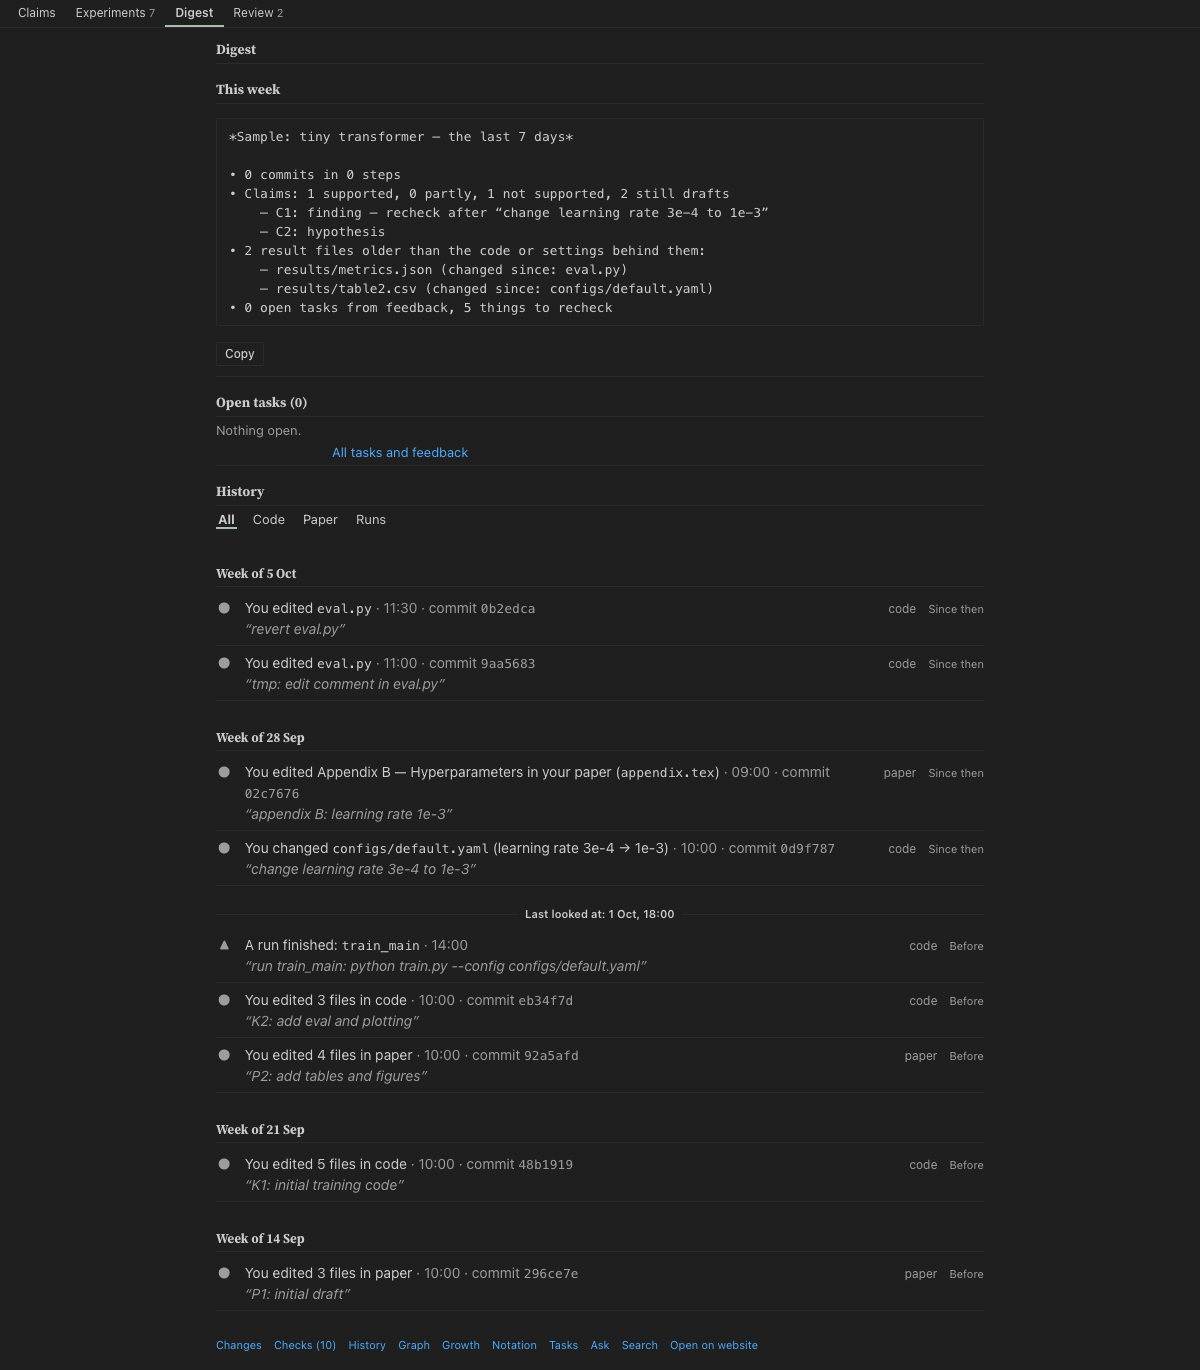
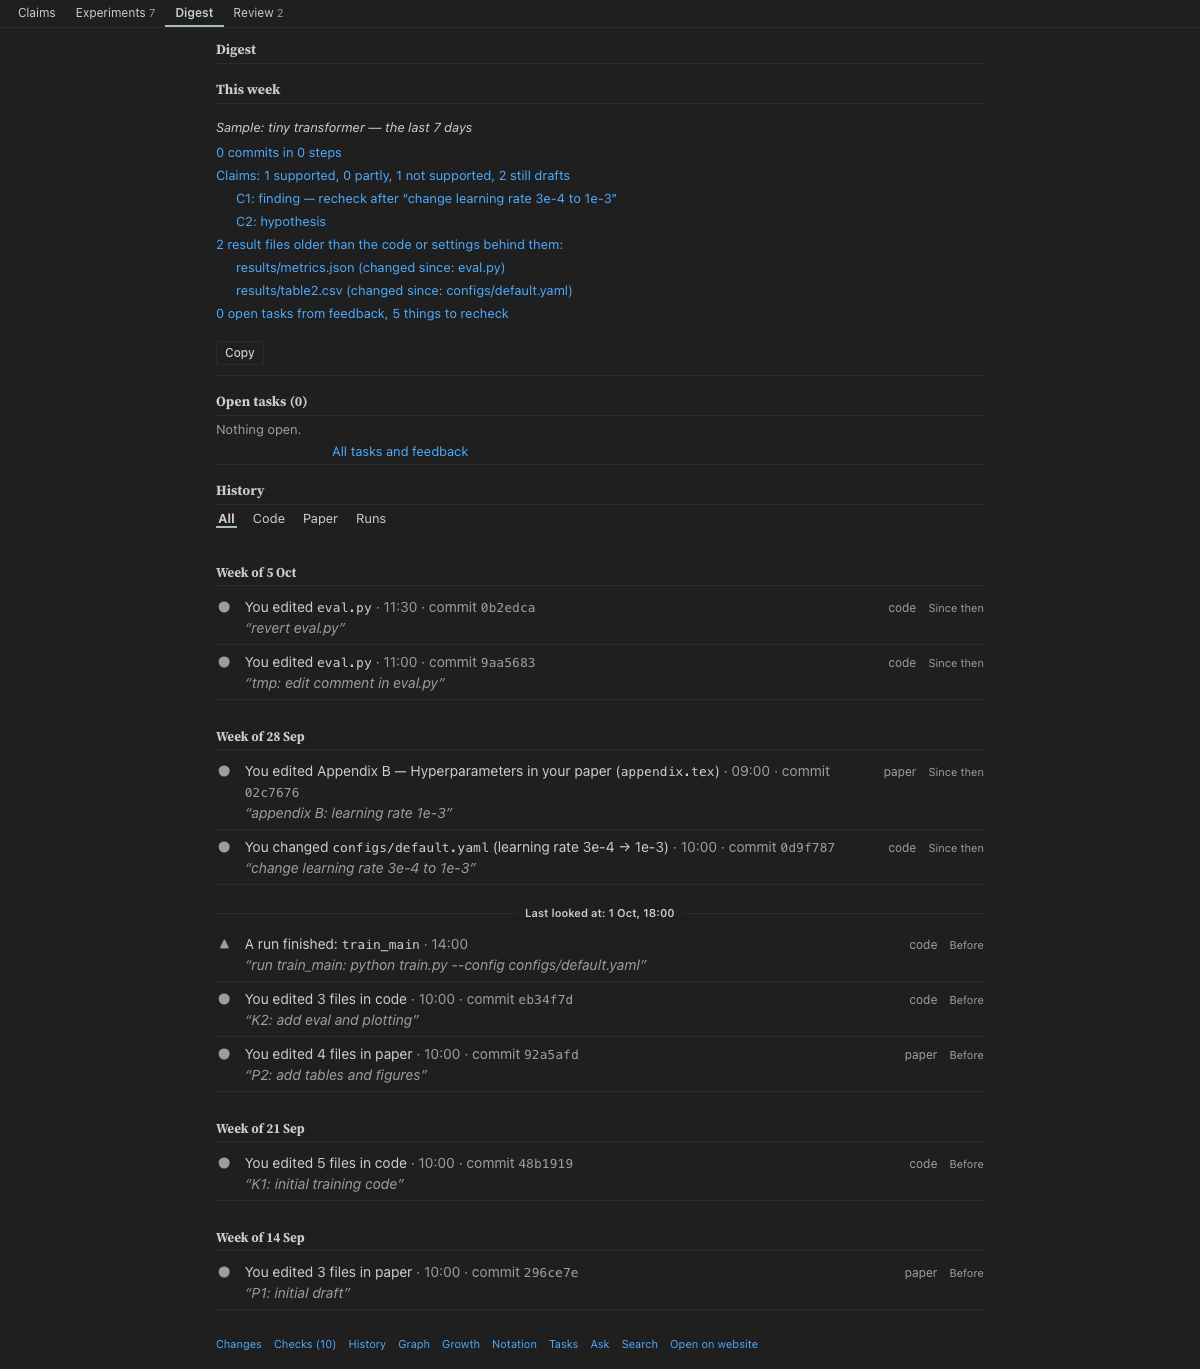
S18: handoff note after QA round 1, retaken screenshots
Claude-Session: https://claude.ai/code/session_01M9nCVEYUbQJoviy45yHzw2

diff --git a/wiki/sprints/S18/S18-01-lead.md b/wiki/sprints/S18/S18-01-lead.md
@@ -1,7 +1,7 @@
 ---
 type: task-card
 owner_agent: lead
-status: built on branch s18-dais-ui, awaiting QA and Juhyeong's approval
+status: QA round 1 defects D1, D3-D7 fixed on s18-dais-ui; awaiting QA re-test and Juhyeong's approval
 sources:
   - "founder message in chat, 2026-11-12 15:53 KST: 'Regarding the UI, align it with the following website. https://dais.korea.ac.kr Overall, I want the UI to be direct, yet simple just like the structure of the website that I have given you.'"
   - "founder message in chat, 2026-11-12 15:55 KST: 'make the design for opening from the visual studio code differently so that the UI adapts to the VS studio code format (it is usually smaller than normal website).'"
@@ -50,6 +50,24 @@ The acceptance criteria hold, QA has verified on the branch, and a report with t
   - VS Code (step 5): `vscode.css` added after `app.css` only in the tab; theme mapping per the spec (variable names checked against the installed VS Code's webview `index.html` and its Light/Dark Modern theme files); three width modes by container query on `#app`; Claims is an outline with arrows under 360 px; tabs shorten to a first letter only when they do not fit; arrow keys move between rows; figures max 160 px; equations scroll in their row; "Open on website" link. CSP (`default-src 'self'`, `frame-ancestors 'none'` on the hub; the tab's nonce CSP) and the S16 request bridge are unchanged.
   - Tests. Baseline at 8b427f5 on this machine: Python 162 passed / 2 skipped; extension unit 56/56; integration 10/10; end-to-end 6 skipped (Playwright is not installed here). Now: Python 169 passed / 2 skipped; unit 63/63; integration 10/10; end-to-end 7 skipped. New: `app/tests/test_s18_ui.py` (7 tests), `vscode/test/unit/s18.test.ts` (7 tests: stylesheet switch, no minimum width, CSP unchanged, theme mapping scoped to the tab, width modes, tree per mode, Digest view), one end-to-end width-mode test (skipped here). No existing test was changed. The end-to-end checks were instead run by hand in WebKit (below): modes at 300/500/1200 px, switching by resizing `#app` without a reload, no sideways scroll, "Open in editor" calls `openFile` with repo, path and line.
   - Screenshots: `screenshots/` (23 + launcher). Website at 1280 px: `website-{claims,experiments,review,digest,start}-1280.png`. VS Code tab: `vscode-{claims,experiments,review,digest}-{300,full}-{light,dark}.png` and `vscode-claims-500-{light,dark}.png`. **Not real VS Code:** the tab was rendered in WebKit (a small local WKWebView snapshot tool; no Chromium or Playwright on this machine) with `vscode.css`, the tab CSS and the `--vscode-*` values of Default Light Modern / Dark Modern from the installed VS Code, against `lemmata demo` (synthetic sample). The start page used a stubbed `/api/hub/status` (public mode).
+- **After QA round 1 ([qa-S18-01.md](qa-S18-01.md), FAIL), fixed in 8383d03:**
+  - D1: the VS Code tab asked for `SourceSans3-Variable.woff2` and its CSP (`font-src data:`) blocked it, which failed e2e 6/7. The tab now drops every `@font-face` it did not inline (`tabFonts` in `vscode/src/core/embed.ts`), so it never asks for a font file; the tab CSP is unchanged. The unit test that asserted the sans URL stayed in the tab's CSS now asserts the opposite. `vscode.css` font stacks fall back to system fonts when `--vscode-*` is missing (QA N4).
+  - D3: no boxed panels on Experiments ("Not mapped yet", "Not tested yet", "No question" are rows). Every state chip is a `[word]` tag followed by the 6 px dot, with no glyph; stages use the spec's dot colours ([hypothesis]/[exploration] pale, [being tested] light, [finding] success, [not supported] error). This also covers Review and the other pages that used chips.
+  - D4: Digest "This week" is plain lines, each a link (claims lines → Claims, result files → Experiments, tasks → Tasks, recheck → Changes, commits → History). Copy still copies the text as sent.
+  - D5: the medium mode (360–700 px) keeps the vertical graph; collapse arrows only under 360 px.
+  - D6: removed `Ctrl/Cmd+\` (no-op `toggleSide`), `Ctrl/Cmd+W` and `Ctrl/Cmd+1–9` (they acted on tabs that are no longer visible), the two "Toggle sidebar" palette commands, `closeTab`, `KIND_TINT` and the stale `--layer-*` comment. Other shortcuts are unchanged (`Ctrl+P`, `Ctrl+O`, `Ctrl+[`/`]`, the single-key ones).
+  - D7: a second e2e width-mode test covers Experiments, Digest and Review at 300/500/1200 px (no sideways scroll, no control past the edge, Experiments 2/4/6 columns, Review 2/3/4, Digest lines are links, no reload); `test_s18_ui.py` has an export test (tokens inlined, 4 `data:` fonts, no file or remote URL).
+  - Tests after the fixes, run by me with QA's scratch Playwright 1.64.1 and Chrome for Testing (`PLAYWRIGHT_DIR`, `CHROME_PATH`), no error filter added: Python 170 passed / 2 skipped; extension unit 63/63; integration 10/10; **end-to-end 8/8**. Screenshots retaken (18 changed) and viewed.
+- **Behaviour changes Juhyeong should know about (QA N3):**
+  - The left explorer is gone: paper tree, code file tree, run list and the search box. Files are reached through the footer's Search (also `Ctrl+O`), Graph and item pages.
+  - The tab bar is gone: no back/forward buttons (a "← Back" link on sub-pages; `Ctrl+[`/`]` still work), no close or `Ctrl+W`, no `Ctrl+1–9`, no `Ctrl+\`.
+  - A new project opens on Claims only (was Claims, Changes and Graph tabs). Start views chosen on the Projects page still open the same pages as before.
+  - Experiments opens on Table, not Map.
+  - The website no longer blocks windows under 1024 px.
+  - State chips read `[finding]`, `[recheck]`… instead of "● Finding", "↻ Recheck".
+  - Digest is a new page; the weekly digest moved there from Tasks.
+  - The one-file export grows from about 417 KB to 934 KB (fonts inlined).
+  - No API route, view list or export format changed, beyond `digest` being added to the tab's views.
 - **Proposed mapping of pages onto the four nav items (implemented as proposed; Juhyeong decides):**
 
   | Nav item | Pages under it (nav item shown active) |
@@ -82,5 +100,5 @@ The acceptance criteria hold, QA has verified on the branch, and a report with t
   2. The VS Code tab now follows the editor theme instead of Lemmata's colours (S16 kept them). Juhyeong was told in chat on 2026-11-12 and has not objected; please confirm.
   3. The page mapping above.
   4. Deviations from the spec: (a) `tokens.css` exists twice (web and desktop launcher) because the Tauri bundle cannot reach the web folder; a test keeps them identical. (b) The launcher's app icon `desktop/launcher/lemmata-icon.svg` still has the old navy/gold colours (an image asset, not CSS/JS); recolour is a designer task. (c) The Claims tree stays in the 800 px column (allowed up to 1100 px; a vertical outline does not need more). (d) The start page has four numbered steps, not three, because cutting the copy is a content decision; it also keeps "Four ways" and the privacy list as rows below the button. (e) The footer stays in VS Code as one line of links, because the pages that are not among the four nav items need a way in; settings and sign-out are not in it. (f) Experiments now opens on its table view (the spec's per-claim table) instead of the map; the map is one click away. (g) The website no longer blocks windows under 1024 px; the one-column layout works at any width. (h) The tab is a WebviewPanel (an editor tab), so the spec's sidebar mapping (`--vscode-sideBar-background`) has no view to apply to.
-  5. Not verified here: a real VS Code window (Default Light/Dark Modern), the end-to-end tests (need Playwright and Chrome), and the hub's signed-in pages (projects list, new project) after the restyle; QA should run `npm run test:e2e` where Playwright exists.
-- **Links:** commits 391f6ea, 0ac5654, 8464c7d, 401caed on `s18-dais-ui`; spec [S18-dais-ui.md](../../design/screens/S18-dais-ui.md); screenshots in [screenshots/](screenshots/).
+  5. Not verified: a real VS Code window (Default Light/Dark Modern) and the hub's signed-in pages (projects list, new project) after the restyle. The hub's own chips (project list) still show a glyph next to the dot. D2 (contrast) stays open for Juhyeong.
+- **Links:** commits 391f6ea, 0ac5654, 8464c7d, 401caed, 8383d03 (QA fixes) on `s18-dais-ui`; QA report [qa-S18-01.md](qa-S18-01.md); spec [S18-dais-ui.md](../../design/screens/S18-dais-ui.md); screenshots in [screenshots/](screenshots/).

diff --git a/wiki/log.md b/wiki/log.md
@@ -70,3 +70,4 @@ date | agent | operation | files touched | note
 2026-11-12 | chat (for founder) | build | wiki/design/screens/S18-dais-ui.md, wiki/sprints/S18/S18-01-lead.md, wiki/index.md | S18 opened: UI style spec aligned with dais.korea.ac.kr (tokens read from the site's stylesheet) plus a separate compact VS Code design; task card assigned to CTO (founder, chat 15:53-16:04 KST). Spec only, no code changed
 2026-11-12 | web-eng (for lead) | build | app/src/lemmata/web/{tokens.css,fonts.css,fonts/,app.css,app.js,research.js,index.html,hub/*}, server.py, desktop/launcher/*, vscode/media/{vscode.css,embed.js}, vscode/src/{tab.ts,core/embed.ts}, vscode/test/{unit/s18,e2e/tab}.test.ts, app/tests/test_s18_ui.py, wiki/sprints/S18/{S18-01-lead.md,screenshots/}, wiki/index.md | S18 build: DAIS tokens, bundled Source Serif 4 / Source Sans 3 (OFL, match Adobe releases), band + column + rows, Digest page, compact VS Code tab with three width modes. 169 Python + 63 unit + 10 integration OK, end-to-end skipped (no Playwright); screenshots rendered in WebKit, not real VS Code; contrast fixes proposed, not applied; QA agent has not verified
 2026-11-12 | qa | lint | wiki/sprints/S18/qa-S18-01.md, wiki/index.md, wiki/log.md | S18-01 verified on s18-dais-ui @ 9089eaa vs 8b427f5: Python 162/2skip -> 169/2skip, unit 56 -> 63, integration 10/10 both, end-to-end 6/6 -> 1/7 (first run with Playwright + Chrome; tab CSP blocks the Source Sans 3 font). Fonts match Adobe releases; CSP and bridge unchanged; width modes probed on all four pages. Verdict FAIL pending the font fix; contrast fix awaits Juhyeong
+2026-11-12 | web-eng (for lead) | build | vscode/src/{core/embed,tab}.ts, vscode/media/vscode.css, app/src/lemmata/web/{app.js,app.css,research.js}, vscode/test/{unit/s18,e2e/tab}.test.ts, app/tests/test_s18_ui.py, wiki/sprints/S18/{S18-01-lead.md,screenshots/} | S18 QA round 1 fixes (D1 tab font blocked by CSP, D3 boxed panels and stage tags, D4 digest prose, D5 medium graph, D6 dead shortcuts, D7 tests). 170 Python + 63 unit + 10 integration + 8/8 end-to-end (QA's scratch Playwright/Chrome) OK; D2 contrast still for Juhyeong; awaiting QA re-test
